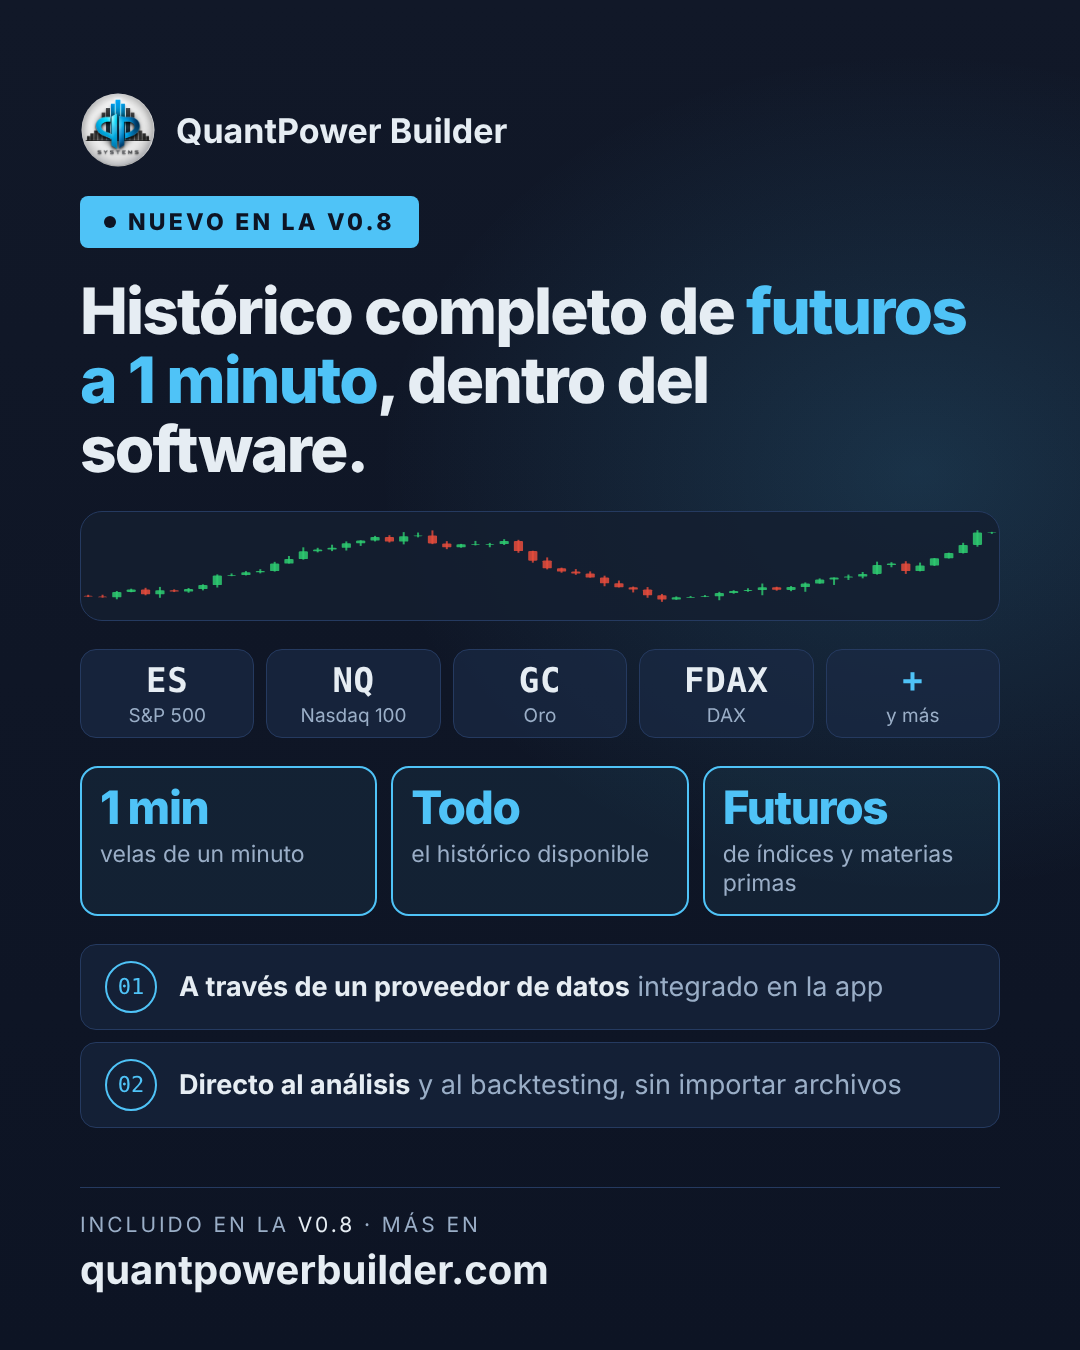
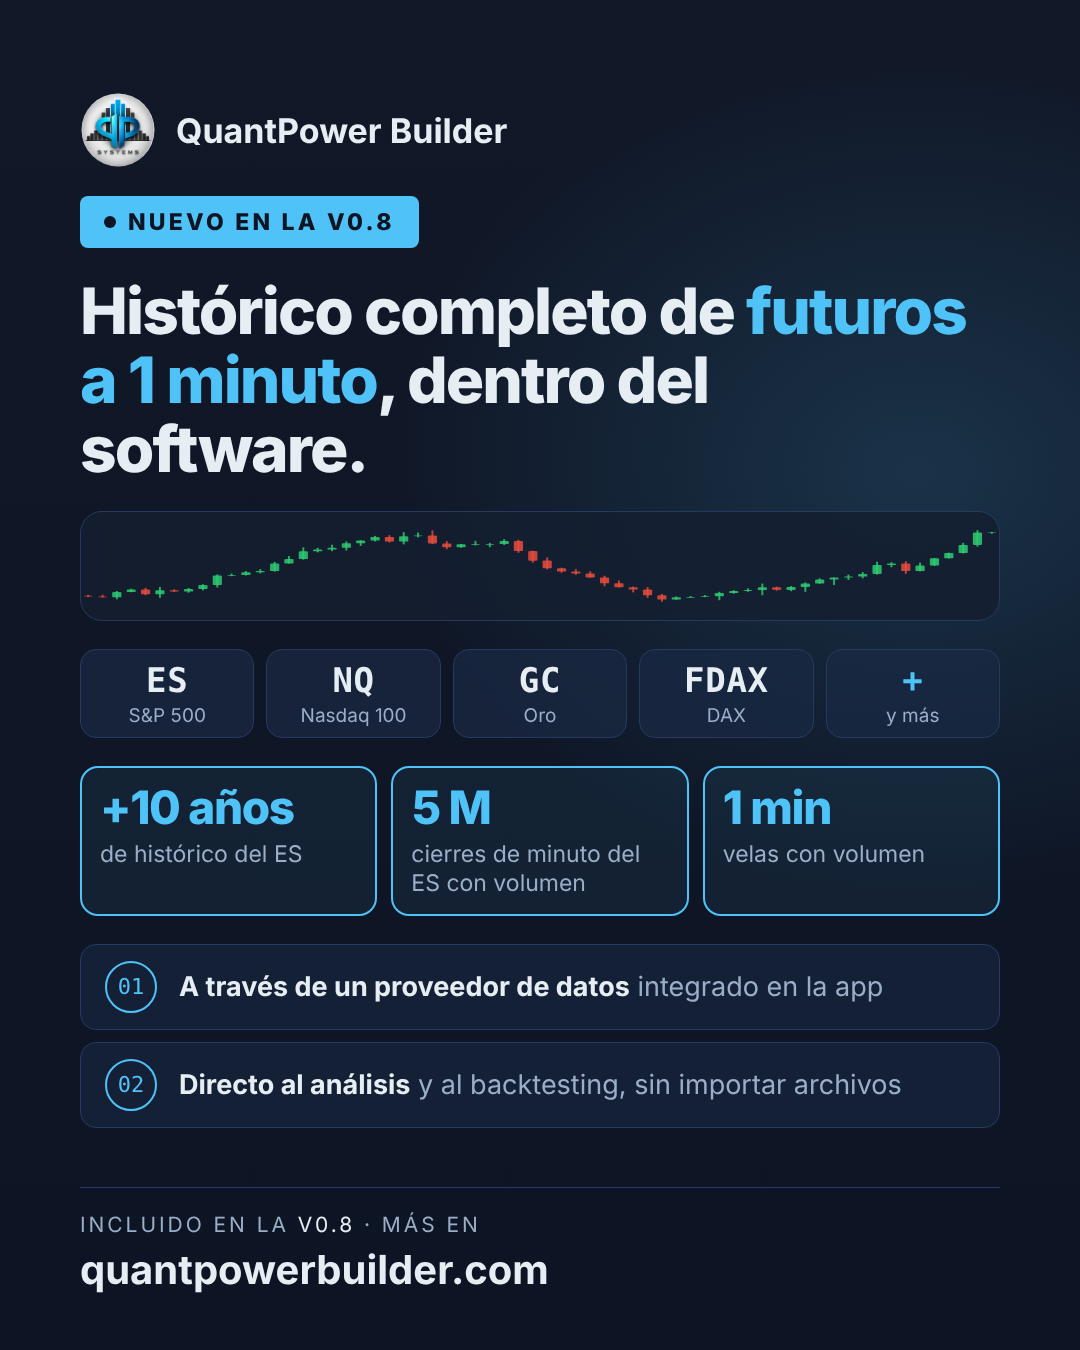
Redes: portada v0.8 con más de 10 años y 5 M de cierres de minuto del ES
Claude-Session: https://claude.ai/code/session_01HHLZi1SgtUefWHesdsfYTT

Changed region(s): [[0.6722, 0.5911, 0.8861, 0.6844], [0.0917, 0.56, 0.275, 0.6533], [0.3667, 0.5911, 0.6111, 0.6533]]

diff --git a/redes/11-futuros-1min/cartel.html b/redes/11-futuros-1min/cartel.html
@@ -105,9 +105,9 @@
     <div class="tk more"><b>+</b><span>y más</span></div>
   </section>
   <section class="stats">
-    <div class="stat"><strong>1 min</strong><span>velas de un minuto</span></div>
-    <div class="stat"><strong>Todo</strong><span>el histórico disponible</span></div>
-    <div class="stat"><strong>Futuros</strong><span>de índices y materias primas</span></div>
+    <div class="stat"><strong>+10 años</strong><span>de histórico del ES</span></div>
+    <div class="stat"><strong>5 M</strong><span>cierres de minuto del ES con volumen</span></div>
+    <div class="stat"><strong>1 min</strong><span>velas con volumen</span></div>
   </section>
   <section class="topics">
     <div class="topic"><i>01</i><span><b>A través de un proveedor de datos</b> integrado en la app</span></div>

diff --git a/redes/11-futuros-1min/texto-post.md b/redes/11-futuros-1min/texto-post.md
@@ -12,11 +12,11 @@ El proveedor no se nombra.
 
 **Descripción (una línea):**
 
-🆕 v0.8: ES, NQ, GC, FDAX… histórico completo a 1 minuto #QuantPowerBuilder
+🆕 v0.8: +10 años del ES a 1 minuto, 5 M de cierres con volumen #QuantPowerBuilder
 
 **Comentario fijado:**
 
-Nuevo en la v0.8 de QuantPower Builder: el histórico completo de futuros como ES, NQ, GC o FDAX en velas de 1 minuto, a través de un proveedor de datos integrado. Directo al análisis y al backtesting.
+Nuevo en la v0.8 de QuantPower Builder: el histórico completo de futuros como ES, NQ, GC o FDAX en velas de 1 minuto, a través de un proveedor de datos integrado. Solo del ES, más de una década: 5 millones de cierres de minuto con volumen. Directo al análisis y al backtesting.
 👉 quantpowerbuilder.com
 #QuantPowerBuilder #futuros #ES #NQ #FDAX #backtesting #trading
 
@@ -24,7 +24,7 @@ Nuevo en la v0.8 de QuantPower Builder: el histórico completo de futuros como E
 
 🆕 Nuevo en QuantPower Builder v0.8: histórico completo de futuros a 1 minuto.
 
-A través de un proveedor de datos integrado en la app, tienes el histórico completo de futuros como ES (S&P 500), NQ (Nasdaq 100), GC (oro) o FDAX (DAX) en velas de un minuto, listo para analizar y para hacer backtesting sin importar archivos.
+A través de un proveedor de datos integrado en la app, tienes el histórico completo de futuros como ES (S&P 500), NQ (Nasdaq 100), GC (oro) o FDAX (DAX) en velas de un minuto. Solo del ES, más de una década de histórico: 5 millones de cierres de minuto con volumen, listos para analizar y para hacer backtesting sin importar archivos.
 
 👉 quantpowerbuilder.com
 
